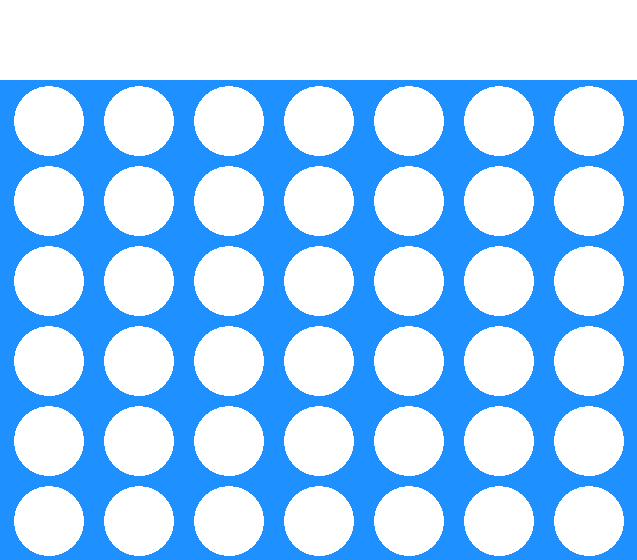
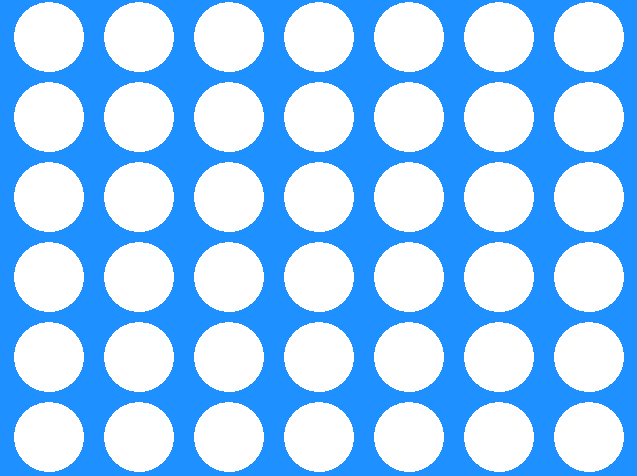
changed board image, aligning pieces

diff --git a/sketch.js b/sketch.js
@@ -484,7 +484,7 @@ function drawPiece(row, col, color)
     stroke(color);
     fill(color);
 
-    ellipse(col * (width / COLUMNS) + ((width / COLUMNS) / 2), height - (row * (height / ROWS)), (width/COLUMNS) * WIDTH_ADJUSTER, (height/ROWS) * HEIGHT_ADJUSTER);
+    ellipse(col * (width / COLUMNS) + ((width / COLUMNS) / 2), height - (row * (height / ROWS)) - ((height/ROWS) / 2), (width/COLUMNS) * WIDTH_ADJUSTER, (height/ROWS) * HEIGHT_ADJUSTER);
 }
 
 function create_board()
